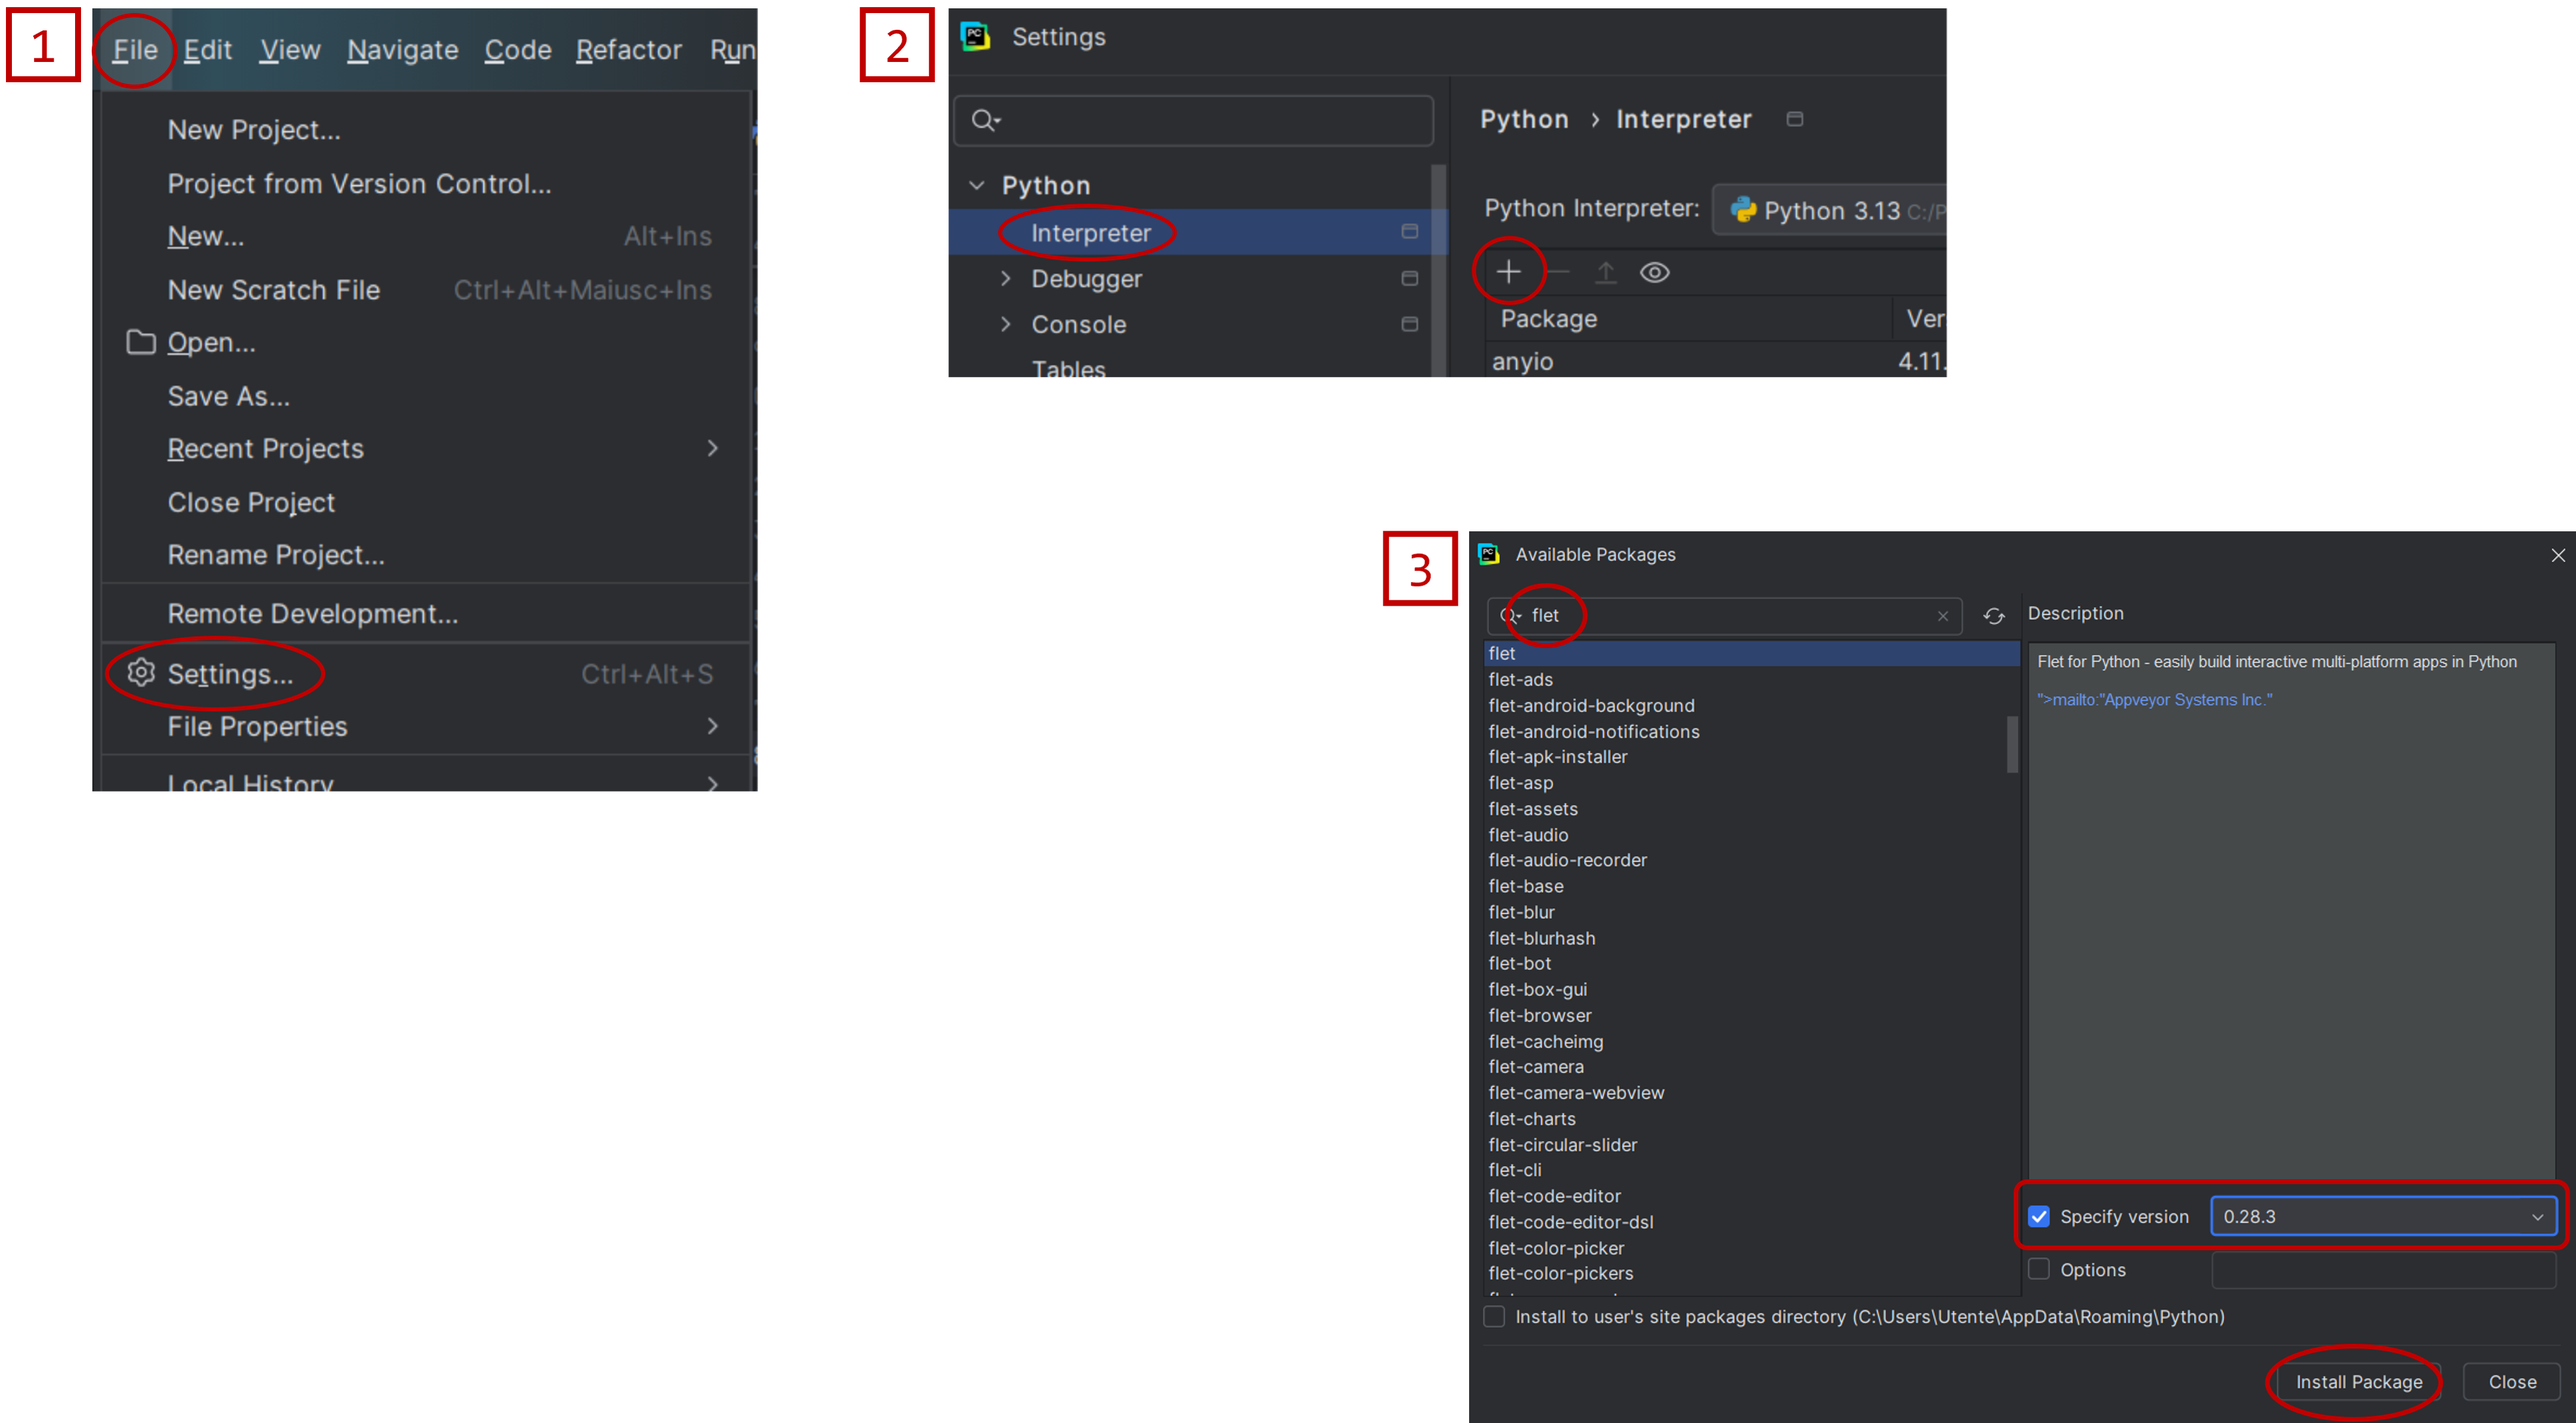
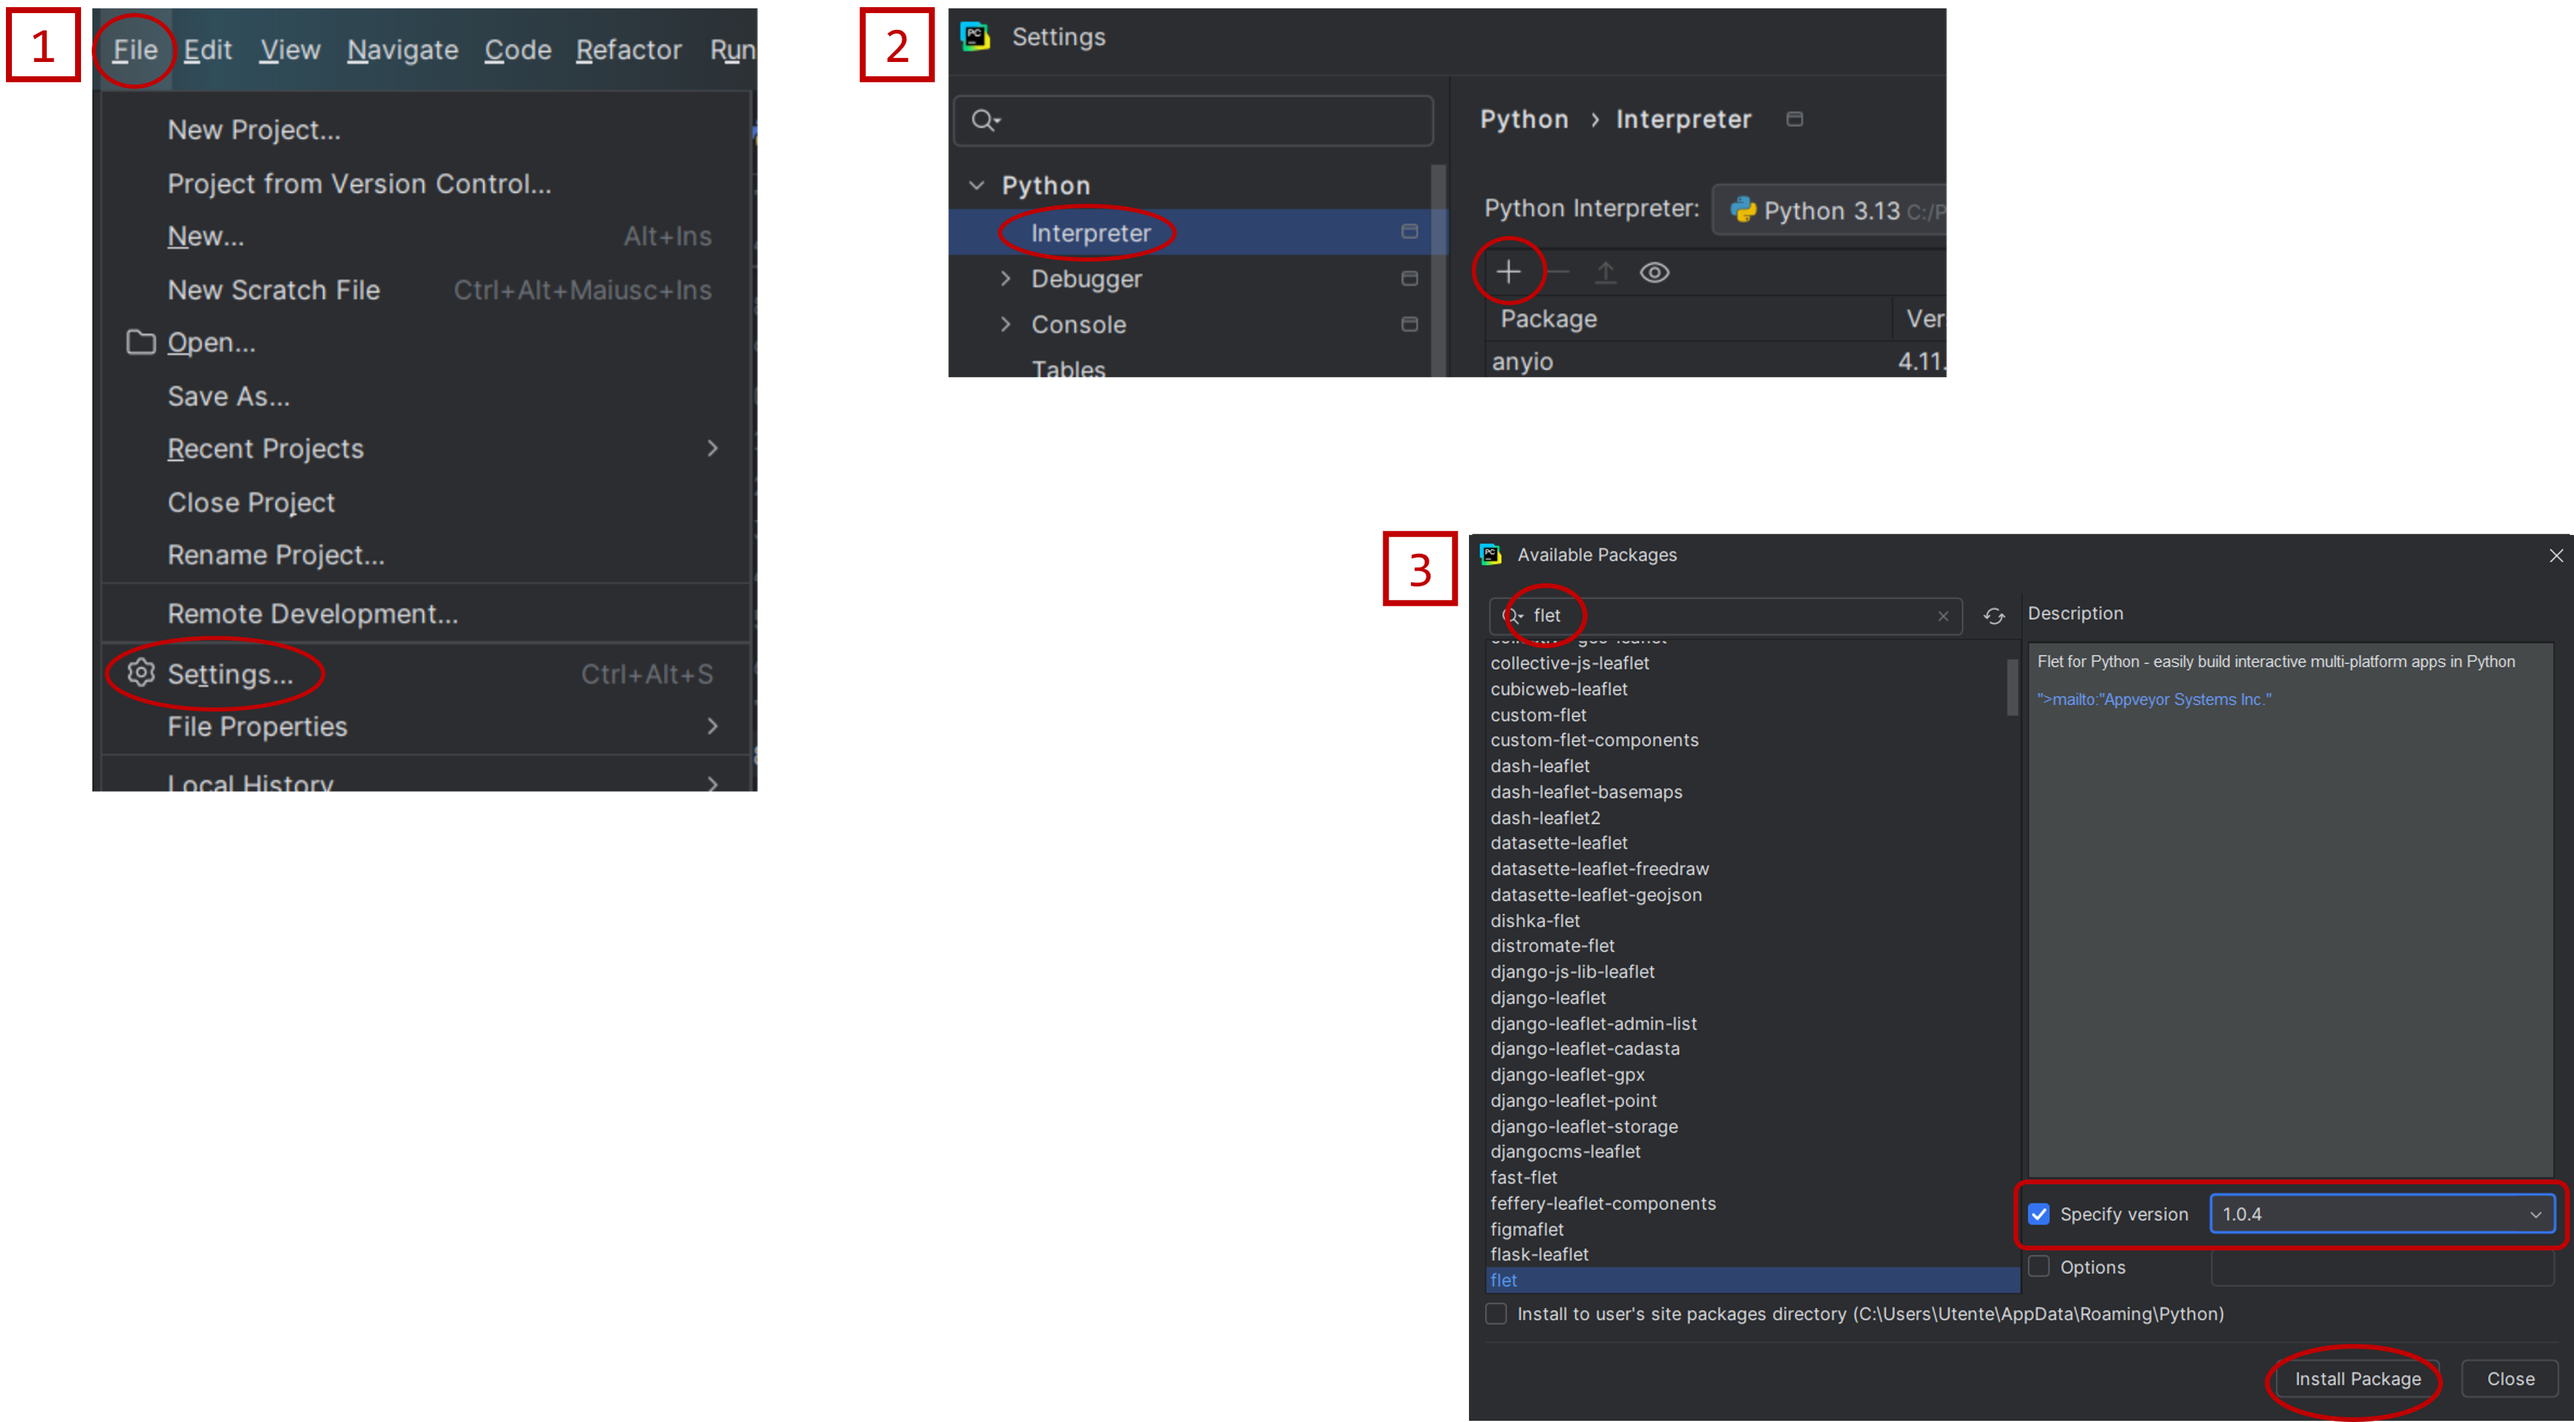
Update flet to v1.0.4

diff --git a/main.py b/main.py
@@ -62,7 +62,7 @@ def main(page: ft.Page):
 
     # --- EVENTI ---
     toggle_cambia_tema = ft.Switch(label="Tema scuro", value=True, on_change=cambia_tema)
-    pulsante_conferma_responsabile = ft.ElevatedButton("Conferma", on_click=conferma_responsabile)
+    pulsante_conferma_responsabile = ft.Button("Conferma", on_click=conferma_responsabile)
 
     # Pulsanti per la gestione dell'inserimento di un nuovo strumento
     # TODO
@@ -92,4 +92,4 @@ def main(page: ft.Page):
     )
     aggiorna_lista_strumenti()
 
-ft.app(target=main)
+ft.run(main)

diff --git a/README.md b/README.md
@@ -2,7 +2,7 @@
 
 #### Argomenti
 
-- Utilizzo pacchetto `Flet` di Python (suggerita v0.28.3)
+- Utilizzo pacchetto `Flet` di Python (suggerita v1.0.4)
 
 ---
 > **❗ ATTENZIONE:**
@@ -46,13 +46,13 @@ grafica. In tale file è necessario implementare il seguente layout, organizzato
 - **Sezione 2**: Modificare il nome del responsabile - già fatto ✅
   - Un controllo `Text` con testo "Modifica Informazioni".
   - Un controllo `TextField` per modificare il nome.
-  - Un controllo `ElevatedButton` "Conferma" per confermare la modifica.
+  - Un controllo `Button` "Conferma" per confermare la modifica.
 - **Sezione 3**: Aggiunta di Nuovi Strumenti - TODO 📝
   - Un controllo `Text` con testo "Aggiungi Nuovo Strumento".
   - Aggiungere 3 controlli `TextField` per inserire tipo, marca e anno di acquisto.
   - Aggiungere un contatore (esempio nelle slide dell'ultima lezione) per incrementare o decrementare il
     valore in euro dello strumento.
-  - Aggiungere un controllo `ElevatedButton` "Aggiungi strumento" che permette di confermare l'aggiunta
+  - Aggiungere un controllo `Button` "Aggiungi strumento" che permette di confermare l'aggiunta
     dello strumento.
 
     Al click del pulsante "Aggiungi strumento", controllare che i campi numerici siano validi, aggiungere
